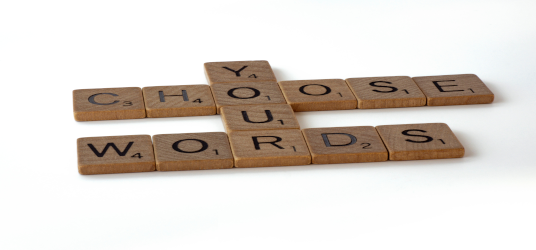
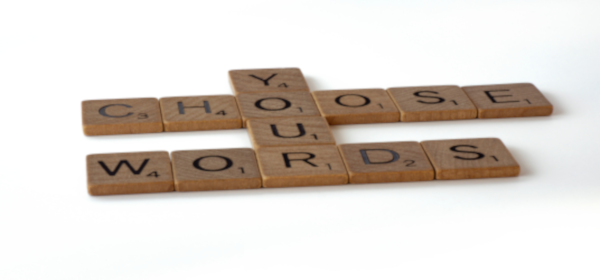
refac(build): #2245.5 pylint imgchecker.py
- Modified imgchecker to comply with pylint
- Fixed small bug referencing previous folder structure
- Modified cover image to meet the requirements

Former-commit-id: 3e019aae43d855103e8b09f782c75928f2f40940

diff --git a/ci-scripts/imgchecker.py b/ci-scripts/imgchecker.py
@@ -3,9 +3,9 @@
 Script to check if images inside the repo are properly optimized
 in size, extension and dimensions
 Author: Oscar Eduardo Prado oprado@fluidattacks.com
-Version 1.2
-Patch notes 1.2:
-- Checks runs over modified or added files, not deleted files
+Version 1.3
+Patch notes 1.3:
+- Comply with pylint
 """
 import os
 import sys
@@ -19,45 +19,45 @@ print_helper.print_success("Checking images ...\n")
 
 #Image size must not exceed 300kb
 OUT = os.popen("find content/ -iname '*.png' -size +300k").read()
-if len(OUT) > 0:
-  print_helper.print_failure("Issue found in the following file(s):\n")
-  print_helper.print_failure(OUT)
-  print_helper.print_warning("Image file size must not exceed 300Kb. "\
-                             "Please correct the file(s) and try again\n\n")
-  EXIT_CODE = 1
+if OUT:
+    print_helper.print_failure("Issue found in the following file(s):\n")
+    print_helper.print_failure(OUT)
+    print_helper.print_warning("Image file size must not exceed 300Kb. "\
+                               "Please correct the file(s) and try again\n\n")
+    EXIT_CODE = 1
 
 #Only valid image extension is PNG
 OUT = os.popen("find . -iname '*.jpeg' -o -iname '*.jpg' \
                 -o -iname '*.bmp' -o -iname '*.tiff'").read()
-if len(OUT) > 0:
-  print_helper.print_failure("Issue found in the following file(s):\n")
-  print_helper.print_failure(OUT)
-  print_helper.print_warning("The only allowed extension for images is PNG. "\
+if OUT:
+    print_helper.print_failure("Issue found in the following file(s):\n")
+    print_helper.print_failure(OUT)
+    print_helper.print_warning("The only allowed extension for images is PNG. "\
                              "Please correct the file(s) and try again\n\n")
-  EXIT_CODE = 1
+    EXIT_CODE = 1
 
 #All blog entries must have a cover.png file
-ARTS = os.popen("find content/blog-* -mindepth 1 -type d").read()
+ARTS = os.popen("find content/blog -mindepth 1 -type d").read()
 ARTS = ARTS.split()
 for ART in ARTS:
-  if not os.path.exists(ART+'/cover.png'):
-    print_helper.print_failure("Issue found in the following article(s):\n")
-    print_helper.print_failure(ART+"\n")
-    print_helper.print_warning("All blog entries must have a cover.png file. "\
-                               "If you already have a cover image, "  \
-                               "please rename it to cover.png. \n\n")
-
-    EXIT_CODE = 1
-  # Check that cover.png has the proper dimensions
-  else:
-      OUT = os.popen('identify -format "%wx%h" '+ART+'/cover.png').read()
-      if not OUT == "600x280":
+    if not os.path.exists(ART+'/cover.png'):
         print_helper.print_failure("Issue found in the following article(s):\n")
         print_helper.print_failure(ART+"\n")
-        print_helper.print_warning("All cover images must have the size 600x280. "\
-                                   "Please modify the cover size. \n\n")
+        print_helper.print_warning("All blog entries must have a cover.png file. "\
+                                   "If you already have a cover image, "  \
+                                   "please rename it to cover.png. \n\n")
 
         EXIT_CODE = 1
+  # Check that cover.png has the proper dimensions
+    else:
+        OUT = os.popen('identify -format "%wx%h" '+ART+'/cover.png').read()
+        if not OUT == "600x280":
+            print_helper.print_failure("Issue found in the following article(s):\n")
+            print_helper.print_failure(ART+"\n")
+            print_helper.print_warning("All cover images must have the size 600x280. "\
+                                       "Please modify the cover size. \n\n")
+
+            EXIT_CODE = 1
 
 #Check that new images are optimized
 print_helper.print_warning("Checking image optimization ...\n")
@@ -69,23 +69,22 @@ LOCAL = os.popen('git rev-list --count --no-merges '+BRANCH[0]).read()
 NCOMMITS = str(int(LOCAL) - int(REMOTE))
 #get only Added or Modified Files
 CHANGES = os.popen('git diff HEAD~'+NCOMMITS+' --name-status \
-                   | pcregrep "^(M|A)" | sed "s/^[A-Z]\s//" ').read()
+                   | pcregrep "^(M|A)" | sed "s/^[A-Z][[:blank:]]//" ').read()
 CHANGES = CHANGES.split()
 
 for FILE in CHANGES:
-  if ".png" in FILE:
-    COMMAND ='optipng '+FILE+' |& pcregrep "already"'
-    OUT = os.popen("bash -c '{}'".format(COMMAND)).read()
-    if not "already optimized" in OUT:
-      print_helper.print_failure("Issue found in the following image(s):\n")
-      print_helper.print_failure(FILE+"\n")
-      print_helper.print_warning("All png files must be optimized. "\
-                                 "Run \"optipng\" or visit https://compresspng.com/es/"\
-                                 " to optimize. \n\n")
-
-      EXIT_CODE = 1
-    else:
-      print_helper.print_success(FILE+" is optimized :) \n")
+    if ".png" in FILE:
+        COMMAND = 'optipng '+FILE+' |& pcregrep "already"'
+        OUT = os.popen("bash -c '{}'".format(COMMAND)).read()
+        if not "already optimized" in OUT:
+            print_helper.print_failure("Issue found in the following image(s):\n")
+            print_helper.print_failure(FILE+"\n")
+            print_helper.print_warning("All png files must be optimized. "\
+                                       "Run \"optipng\" or visit https://compresspng.com/es/"\
+                                      " to optimize. \n\n")
+            EXIT_CODE = 1
+        else:
+            print_helper.print_success(FILE+" is optimized :) \n")
 
 print_helper.print_success("\nDone!\n")
 
